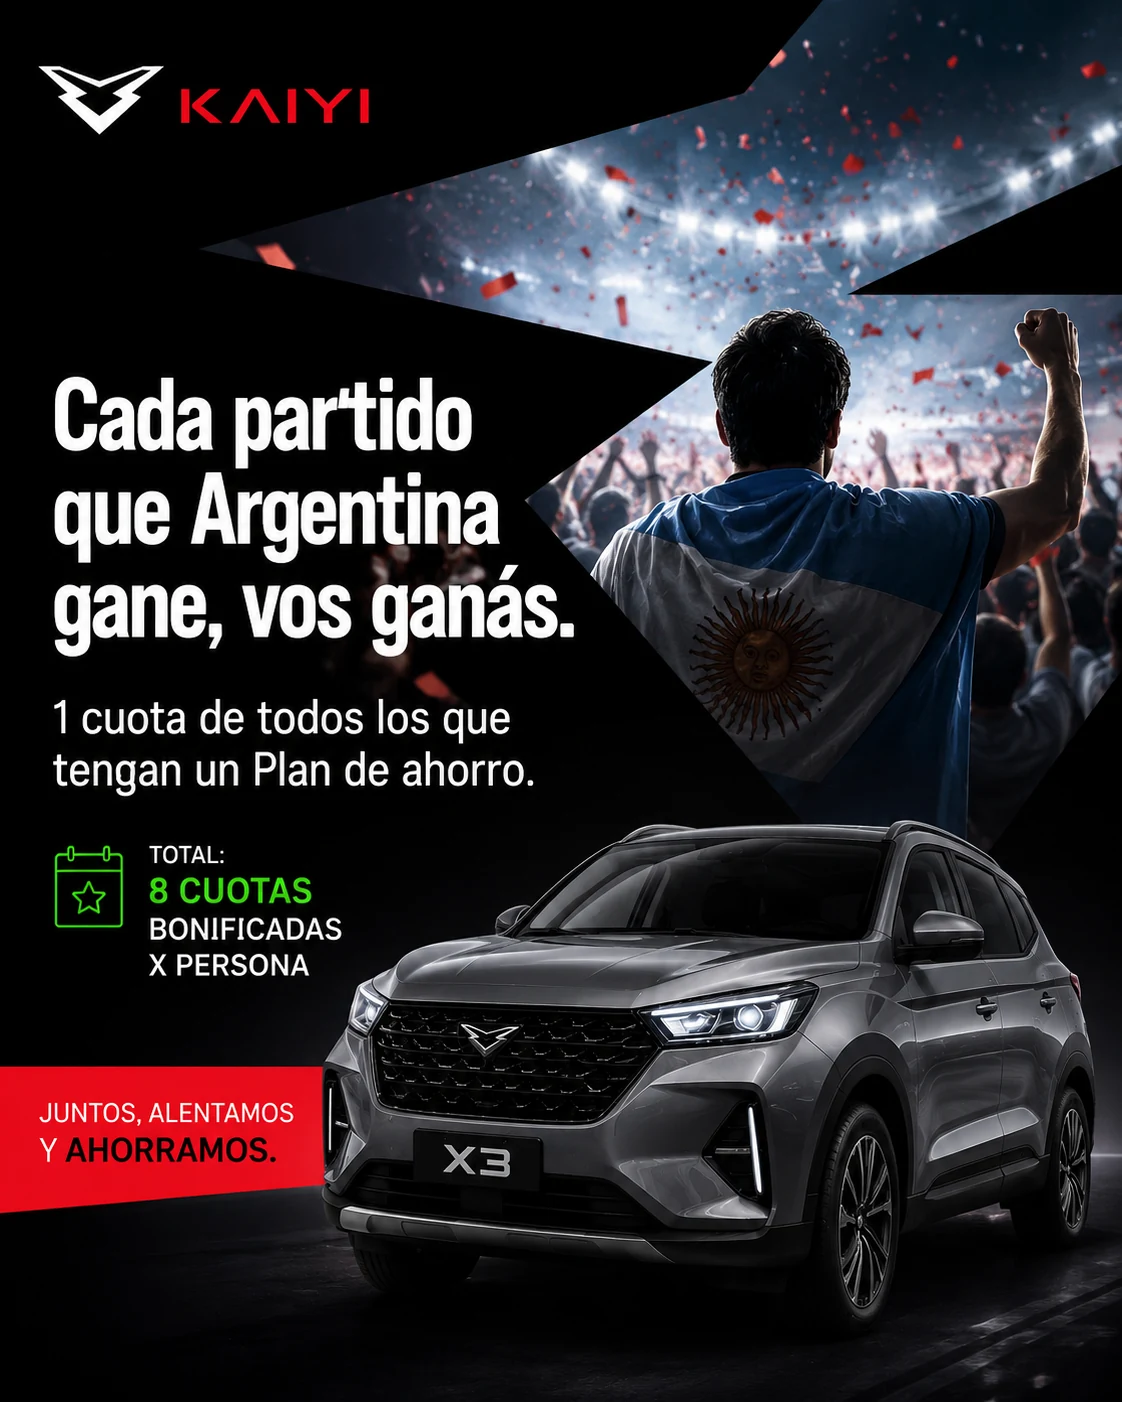
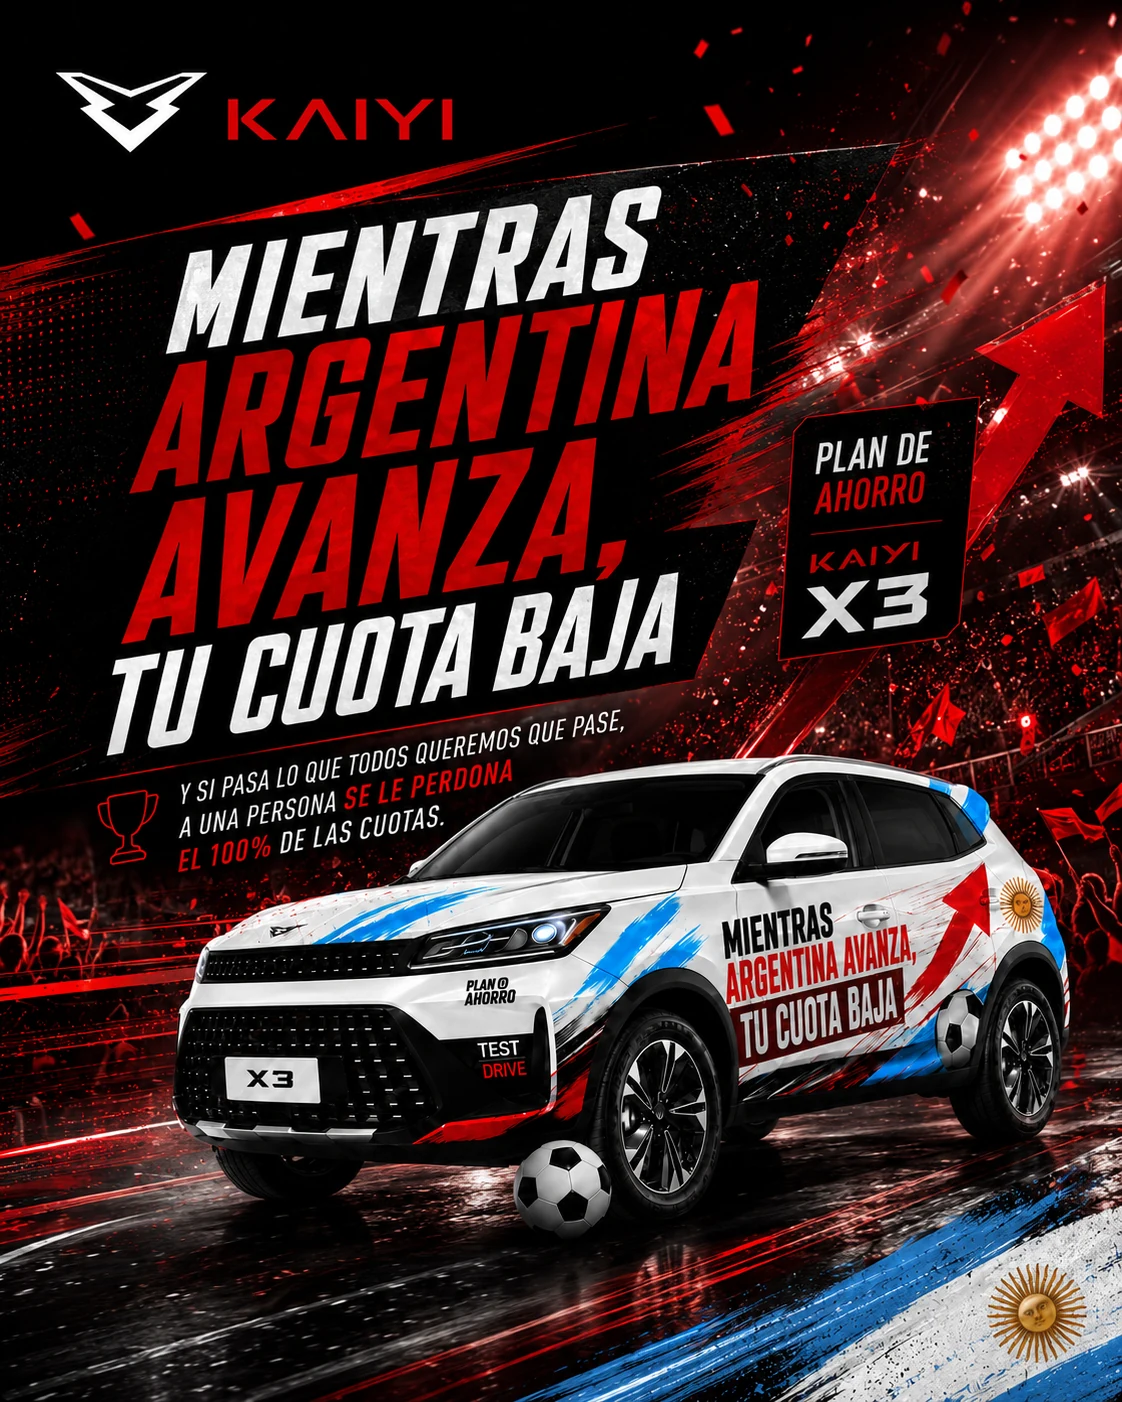
kaiyi-mundial-plan-ahorro: imagenes finales (KVs, renders concesionaria, Peto) + seccion Paid Media (Meta en USD @user + medios directos)

diff --git a/presentaciones/kaiyi/kaiyi-mundial-plan-ahorro/index.html b/presentaciones/kaiyi/kaiyi-mundial-plan-ahorro/index.html
@@ -187,11 +187,43 @@
     </div>
 
     <!-- paid media -->
-    <span class="sub-label reveal">Paid media</span>
-    <div class="reserved reveal" data-d="60">
-      <div class="rt">Space reserved · team input</div>
-      <h4>Digital campaign for lead capture</h4>
-      <p>Real-time campaign across Google, Meta and TikTok promoting the benefit stage by stage and capturing Kaiyi X3 savings-plan leads. Detailed media strategy, mix and investment to be added here by the performance team.</p>
+    <span class="sub-label reveal">Paid media · the plan</span>
+    <p class="lead reveal">Built on Kaiyi X3 / Savings Plan historical performance, a prudent, predictable scenario for the 22-day window (Jun 29 – Jul 20). The World Cup mechanic adds a clear commercial trigger: every stage Argentina advances is a covered installment, turning the run into real urgency to subscribe to the X3 plan.</p>
+
+    <div class="cost-grid reveal" data-d="60" style="margin-top:26px">
+      <div class="cost-card hot"><div class="cc-l">Total paid investment</div><div class="cc-v">US$ 3,095</div><div class="cc-d">Meta + direct media, all-in for the 22-day window.</div></div>
+      <div class="cost-card"><div class="cc-l">Window</div><div class="cc-v">22 days</div><div class="cc-d">Jun 29 – Jul 20, the heart of the run.</div></div>
+      <div class="cost-card"><div class="cc-l">Fronts</div><div class="cc-v">2</div><div class="cc-d">Meta lead-gen + premium direct-media portals.</div></div>
+    </div>
+
+    <!-- META -->
+    <div class="pm-block reveal" data-d="60" style="margin-top:26px">
+      <div class="pm-h"><span class="pm-pill">Meta</span><h3>Instagram + Facebook · lead generation</h3></div>
+      <p class="pm-rational">Projection based on Kaiyi X3 / Savings Plan historical campaign performance, a prudent scenario prioritizing consistency and predictability. The World Cup benefit reinforces intent to enquire and opens a tactical window to push the X3 plan.</p>
+      <div class="stats cols-5">
+        <div class="stat"><div class="n gr">US$ 987</div><div class="l">Investment</div><div class="d">ARS 1.5M @ $1,520</div></div>
+        <div class="stat"><div class="n gr">200–220</div><div class="l">Leads</div></div>
+        <div class="stat"><div class="n gr">115–130K</div><div class="l">Reach</div></div>
+        <div class="stat"><div class="n gr">260–285K</div><div class="l">Impressions</div></div>
+        <div class="stat"><div class="n gr">1.3–1.6K</div><div class="l">Clicks</div></div>
+      </div>
+    </div>
+
+    <!-- DIRECT MEDIA -->
+    <div class="pm-block reveal" data-d="60" style="margin-top:16px">
+      <div class="pm-h"><span class="pm-pill">Direct media</span><h3>Premium portals · qualified traffic</h3></div>
+      <p class="pm-rational">Optimized allocation across high-fidelity sites: high viewability on iProfesional, mass reach on Canal 26 and regional presence on El Día. The run works as an urgency trigger, securing the qualified traffic needed to maximize X3 plan subscriptions.</p>
+      <div class="ptable-wrap" style="margin-top:20px">
+        <table class="ptable">
+          <thead><tr><th>Site</th><th>Investment</th><th>Impressions</th><th>Viewability</th><th>CTR</th><th>Clicks</th></tr></thead>
+          <tbody>
+            <tr><td>iProfesional</td><td>US$ 949</td><td>129,217</td><td>95%</td><td>0.48%</td><td>1,415</td></tr>
+            <tr><td>Canal 26</td><td>US$ 738</td><td>440,000</td><td>74%</td><td>0.20%</td><td>554</td></tr>
+            <tr><td>El Día</td><td>US$ 422</td><td>220,000</td><td>65%</td><td>0.10%</td><td>220</td></tr>
+            <tr class="total"><td>Total</td><td>US$ 2,108</td><td>789,217</td><td>78%</td><td>0.26%</td><td>2,189</td></tr>
+          </tbody>
+        </table>
+      </div>
     </div>
 
     <!-- influencers -->
@@ -205,7 +237,7 @@
         <div class="pf"><b>+500K</b> followers · IG</div>
       </div>
       <div class="streamer">
-        <div class="pic ph-pic"><span>Peto Colombo<br>photo TBD</span></div>
+        <div class="pic"><img src="assets/img/peto-colombo.webp" alt="Peto Colombo"></div>
         <div class="pn">Peto Colombo</div>
         <div class="pm">Auto-niche creator · launch host</div>
         <div class="pf"><b>+250K</b> followers · IG + YT</div>
@@ -255,15 +287,16 @@
       <p class="lead">World Cup atmosphere built to HQ's design guidelines, the mandatory branding kit that also unlocks co-funding. Images below are reference placeholders; final renders will be produced and swapped in.</p>
     </div>
 
-    <div class="vframe glow reveal" data-d="40" style="margin-bottom:28px"><img src="assets/img/dealership-banner.webp" alt="Dealership World Cup branding reference"></div>
+    <div class="vframe glow reveal" data-d="40" style="margin-bottom:10px"><img src="assets/img/facade-door-head.webp" alt="Facade door head · World Cup dealership branding"></div>
+    <p class="note reveal" style="margin-bottom:28px">Facade door head · 4 m × 7 m, the storefront turns into the stadium.</p>
 
     <div class="gallery reveal" data-d="80">
-      <div class="ga-tile"><div class="ga-ph"><span class="tg">Render TBD</span></div><div class="ga-body"><span class="req">Mandatory</span><h4>Facade door head</h4><div class="spec">4 m × 7 m · main storefront sign</div></div></div>
-      <div class="ga-tile"><div class="ga-ph"><span class="tg">Render TBD</span></div><div class="ga-body"><span class="req">Mandatory</span><h4>Window vinyl</h4><div class="spec">1 m × 1,7 m · glass film</div></div></div>
-      <div class="ga-tile"><div class="ga-ph"><span class="tg">Render TBD</span></div><div class="ga-body"><span class="req">Mandatory</span><h4>Totem / display</h4><div class="spec">180 cm × 80 cm · promo offers</div></div></div>
-      <div class="ga-tile"><div class="ga-ph"><span class="tg">Render TBD</span></div><div class="ga-body"><span class="req">Mandatory</span><h4>Main event KV</h4><div class="spec">9 m × 16 m · host key visual</div></div></div>
-      <div class="ga-tile"><div class="ga-ph"><span class="tg">Render TBD</span></div><div class="ga-body"><span class="req">Mandatory</span><h4>Vehicle wrap</h4><div class="spec">0,86 m × 4,71 m · X3 ploteo</div></div></div>
-      <div class="ga-tile"><div class="ga-ph"><span class="tg">Render TBD</span></div><div class="ga-body"><span class="req">Mandatory</span><h4>Interior &amp; hanging décor</h4><div class="spec">World Cup ambiance · as needed</div></div></div>
+      <div class="ga-tile"><div class="ga-ph"><img src="assets/img/window-vinyl.webp" alt="Window vinyl"></div><div class="ga-body"><span class="req">Mandatory</span><h4>Window vinyl</h4><div class="spec">1 m × 1,7 m · glass film</div></div></div>
+      <div class="ga-tile"><div class="ga-ph"><img src="assets/img/totem-display.webp" alt="Totem / display"></div><div class="ga-body"><span class="req">Mandatory</span><h4>Totem / display</h4><div class="spec">180 cm × 80 cm · promo offers</div></div></div>
+      <div class="ga-tile"><div class="ga-ph"><img src="assets/img/main-event-kv.webp" alt="Main event KV"></div><div class="ga-body"><span class="req">Mandatory</span><h4>Main event KV</h4><div class="spec">9 m × 16 m · host key visual</div></div></div>
+      <div class="ga-tile"><div class="ga-ph"><img src="assets/img/kaiyi-suv.webp" alt="Vehicle wrap"></div><div class="ga-body"><span class="req">Mandatory</span><h4>Vehicle wrap</h4><div class="spec">0,86 m × 4,71 m · X3 ploteo</div></div></div>
+      <div class="ga-tile"><div class="ga-ph"><img src="assets/img/interior-hanging-decor.webp" alt="Interior &amp; hanging décor"></div><div class="ga-body"><span class="req">Mandatory</span><h4>Interior &amp; hanging décor</h4><div class="spec">World Cup ambiance · as needed</div></div></div>
+      <div class="ga-tile"><div class="ga-ph"><img src="assets/img/banner-roll-up.webp" alt="Roll-up banner"></div><div class="ga-body"><span class="req">Support</span><h4>Roll-up banner</h4><div class="spec">Promo roll-up · point of sale</div></div></div>
     </div>
 
     <!-- cost -->
@@ -481,11 +514,43 @@
     </div>
 
     <!-- paid media -->
-    <span class="sub-label reveal">Paid media</span>
-    <div class="reserved reveal" data-d="60">
-      <div class="rt">Espacio reservado · input del equipo</div>
-      <h4>Campaña digital para captación de leads</h4>
-      <p>Campaña en tiempo real en Google, Meta y TikTok promocionando el beneficio fase por fase y captando leads del Plan de Ahorro Kaiyi X3. La estrategia de medios, el mix y la inversión los suma acá el equipo de performance.</p>
+    <span class="sub-label reveal">Paid media · el plan</span>
+    <p class="lead reveal">Construido sobre el rendimiento histórico de campañas de Kaiyi X3 / Plan de Ahorro, un escenario prudente y previsible para la ventana de 22 días (29/06 al 20/07). La mecánica Mundial suma un gatillador comercial claro: cada fase que avanza Argentina es una cuota bonificada, y eso transforma el avance en urgencia real para suscribir el plan del X3.</p>
+
+    <div class="cost-grid reveal" data-d="60" style="margin-top:26px">
+      <div class="cost-card hot"><div class="cc-l">Inversión total paid</div><div class="cc-v">US$ 3.095</div><div class="cc-d">Meta + medios directos, all-in para los 22 días.</div></div>
+      <div class="cost-card"><div class="cc-l">Ventana</div><div class="cc-v">22 días</div><div class="cc-d">29/06 al 20/07, el corazón del torneo.</div></div>
+      <div class="cost-card"><div class="cc-l">Frentes</div><div class="cc-v">2</div><div class="cc-d">Lead-gen en Meta + portales premium de medios directos.</div></div>
+    </div>
+
+    <!-- META -->
+    <div class="pm-block reveal" data-d="60" style="margin-top:26px">
+      <div class="pm-h"><span class="pm-pill">Meta</span><h3>Instagram + Facebook · generación de leads</h3></div>
+      <p class="pm-rational">Proyección basada en el rendimiento histórico de campañas de Kaiyi X3 / Plan de Ahorro, un escenario prudente que prioriza consistencia y previsibilidad. El beneficio Mundial refuerza la intención de consulta y abre una oportunidad táctica para impulsar el Plan de Ahorro X3.</p>
+      <div class="stats cols-5">
+        <div class="stat"><div class="n gr">US$ 987</div><div class="l">Inversión</div><div class="d">ARS 1,5M @ $1.520</div></div>
+        <div class="stat"><div class="n gr">200–220</div><div class="l">Leads</div></div>
+        <div class="stat"><div class="n gr">115–130K</div><div class="l">Alcance</div></div>
+        <div class="stat"><div class="n gr">260–285K</div><div class="l">Impresiones</div></div>
+        <div class="stat"><div class="n gr">1,3–1,6K</div><div class="l">Clics</div></div>
+      </div>
+    </div>
+
+    <!-- MEDIOS DIRECTOS -->
+    <div class="pm-block reveal" data-d="60" style="margin-top:16px">
+      <div class="pm-h"><span class="pm-pill">Medios directos</span><h3>Portales premium · tráfico calificado</h3></div>
+      <p class="pm-rational">Asignación optimizada sobre sitios de alta fidelidad: alta viewability en iProfesional, alcance masivo en Canal 26 y presencia regional en El Día. El Mundial funciona como gatillador de urgencia y asegura el tráfico calificado para maximizar las suscripciones al Plan de Ahorro X3.</p>
+      <div class="ptable-wrap" style="margin-top:20px">
+        <table class="ptable">
+          <thead><tr><th>Sitio</th><th>Inversión</th><th>Impresiones</th><th>Viewability</th><th>CTR</th><th>Clics</th></tr></thead>
+          <tbody>
+            <tr><td>iProfesional</td><td>US$ 949</td><td>129.217</td><td>95%</td><td>0,48%</td><td>1.415</td></tr>
+            <tr><td>Canal 26</td><td>US$ 738</td><td>440.000</td><td>74%</td><td>0,20%</td><td>554</td></tr>
+            <tr><td>El Día</td><td>US$ 422</td><td>220.000</td><td>65%</td><td>0,10%</td><td>220</td></tr>
+            <tr class="total"><td>Total</td><td>US$ 2.108</td><td>789.217</td><td>78%</td><td>0,26%</td><td>2.189</td></tr>
+          </tbody>
+        </table>
+      </div>
     </div>
 
     <!-- influencers -->
@@ -499,7 +564,7 @@
         <div class="pf"><b>+500K</b> seguidores · IG</div>
       </div>
       <div class="streamer">
-        <div class="pic ph-pic"><span>Peto Colombo<br>foto a definir</span></div>
+        <div class="pic"><img src="assets/img/peto-colombo.webp" alt="Peto Colombo"></div>
         <div class="pn">Peto Colombo</div>
         <div class="pm">Creador nicho auto · host del lanzamiento</div>
         <div class="pf"><b>+250K</b> seguidores · IG + YT</div>
@@ -549,15 +614,16 @@
       <p class="lead">Ambientación mundialista según los lineamientos de diseño de HQ, el kit de branding obligatorio que además habilita el co-funding. Las imágenes de abajo son placeholders de referencia; los renders finales se producen y se reemplazan.</p>
     </div>
 
-    <div class="vframe glow reveal" data-d="40" style="margin-bottom:28px"><img src="assets/img/dealership-banner.webp" alt="Referencia de branding mundialista en concesionaria"></div>
+    <div class="vframe glow reveal" data-d="40" style="margin-bottom:10px"><img src="assets/img/facade-door-head.webp" alt="Cartel de fachada · ambientación mundialista en concesionaria"></div>
+    <p class="note reveal" style="margin-bottom:28px">Cartel de fachada · 4 m × 7 m, la concesionaria se convierte en la cancha.</p>
 
     <div class="gallery reveal" data-d="80">
-      <div class="ga-tile"><div class="ga-ph"><span class="tg">Render a definir</span></div><div class="ga-body"><span class="req">Obligatorio</span><h4>Cartel de fachada</h4><div class="spec">4 m × 7 m · cartel principal</div></div></div>
-      <div class="ga-tile"><div class="ga-ph"><span class="tg">Render a definir</span></div><div class="ga-body"><span class="req">Obligatorio</span><h4>Vinilo para vidriera</h4><div class="spec">1 m × 1,7 m · glass film</div></div></div>
-      <div class="ga-tile"><div class="ga-ph"><span class="tg">Render a definir</span></div><div class="ga-body"><span class="req">Obligatorio</span><h4>Tótem / display</h4><div class="spec">180 cm × 80 cm · ofertas promo</div></div></div>
-      <div class="ga-tile"><div class="ga-ph"><span class="tg">Render a definir</span></div><div class="ga-body"><span class="req">Obligatorio</span><h4>KV principal del evento</h4><div class="spec">9 m × 16 m · host key visual</div></div></div>
-      <div class="ga-tile"><div class="ga-ph"><span class="tg">Render a definir</span></div><div class="ga-body"><span class="req">Obligatorio</span><h4>Ploteo vehicular</h4><div class="spec">0,86 m × 4,71 m · ploteo X3</div></div></div>
-      <div class="ga-tile"><div class="ga-ph"><span class="tg">Render a definir</span></div><div class="ga-body"><span class="req">Obligatorio</span><h4>Ambientación interior y colgante</h4><div class="spec">Clima mundialista · según necesidad</div></div></div>
+      <div class="ga-tile"><div class="ga-ph"><img src="assets/img/window-vinyl.webp" alt="Vinilo para vidriera"></div><div class="ga-body"><span class="req">Obligatorio</span><h4>Vinilo para vidriera</h4><div class="spec">1 m × 1,7 m · glass film</div></div></div>
+      <div class="ga-tile"><div class="ga-ph"><img src="assets/img/totem-display.webp" alt="Tótem / display"></div><div class="ga-body"><span class="req">Obligatorio</span><h4>Tótem / display</h4><div class="spec">180 cm × 80 cm · ofertas promo</div></div></div>
+      <div class="ga-tile"><div class="ga-ph"><img src="assets/img/main-event-kv.webp" alt="KV principal del evento"></div><div class="ga-body"><span class="req">Obligatorio</span><h4>KV principal del evento</h4><div class="spec">9 m × 16 m · host key visual</div></div></div>
+      <div class="ga-tile"><div class="ga-ph"><img src="assets/img/kaiyi-suv.webp" alt="Ploteo vehicular"></div><div class="ga-body"><span class="req">Obligatorio</span><h4>Ploteo vehicular</h4><div class="spec">0,86 m × 4,71 m · ploteo X3</div></div></div>
+      <div class="ga-tile"><div class="ga-ph"><img src="assets/img/interior-hanging-decor.webp" alt="Ambientación interior y colgante"></div><div class="ga-body"><span class="req">Obligatorio</span><h4>Ambientación interior y colgante</h4><div class="spec">Clima mundialista · según necesidad</div></div></div>
+      <div class="ga-tile"><div class="ga-ph"><img src="assets/img/banner-roll-up.webp" alt="Banner roll-up"></div><div class="ga-body"><span class="req">Soporte</span><h4>Banner roll-up</h4><div class="spec">Roll-up promocional · punto de venta</div></div></div>
     </div>
 
     <!-- costo -->

diff --git a/presentaciones/kaiyi/kaiyi-mundial-plan-ahorro/styles.css b/presentaciones/kaiyi/kaiyi-mundial-plan-ahorro/styles.css
@@ -367,6 +367,27 @@ a { color: inherit; text-decoration: none; }
 .cost-card.hot .cc-v { color: var(--red); }
 .cost-card .cc-d { font-size: 12.5px; color: var(--t-2); margin-top: 10px; line-height: 1.5; }
 
+/* ----- Paid media · channel block + portals table ----- */
+.pm-block { border: 1px solid var(--border); border-radius: var(--radius); padding: 28px 28px 30px; background: var(--card); }
+.pm-block .pm-h { display: flex; align-items: center; gap: 12px; flex-wrap: wrap; margin-bottom: 6px; }
+.pm-block .pm-h h3 { font-size: 20px; font-weight: 700; }
+.pm-block .pm-h .pm-pill { font-size: 10.5px; letter-spacing: .12em; text-transform: uppercase; font-weight: 700; color: #fff; background: var(--red); padding: 4px 10px; border-radius: 999px; }
+.pm-block .pm-rational { font-size: 13.5px; color: var(--t-2); line-height: 1.6; margin-top: 12px; max-width: 720px; }
+.pm-block .stats { margin-top: 22px; }
+
+.ptable-wrap { overflow-x: auto; border: 1px solid var(--border); border-radius: var(--radius-sm); background: var(--card); }
+.ptable { width: 100%; border-collapse: collapse; font-size: 13.5px; min-width: 580px; }
+.ptable th { text-align: left; font-size: 11px; font-weight: 700; letter-spacing: .08em; text-transform: uppercase; color: var(--t-3); padding: 14px 16px; border-bottom: 1px solid var(--border-2); white-space: nowrap; }
+.ptable th:not(:first-child) { text-align: right; }
+.ptable td { padding: 13px 16px; border-top: 1px solid var(--border); color: var(--t-2); }
+.ptable td:first-child { color: #fff; font-weight: 600; padding-left: 20px; }
+.ptable td:not(:first-child) { text-align: right; font-variant-numeric: tabular-nums; }
+.ptable tbody tr:hover td { background: rgba(255,255,255,.02); }
+.ptable tr.total td { font-weight: 800; color: #fff; border-top: 1px solid var(--border-2); background: rgba(255,0,0,.06); }
+.ptable tr.total td:not(:first-child) { color: var(--red); }
+.pm-cols { display: grid; grid-template-columns: 1fr 1fr; gap: 16px; }
+@media (max-width: 980px) { .pm-cols { grid-template-columns: 1fr; } }
+
 /* ----- Horizontal timeline (calendar) ----- */
 .tline { position: relative; margin-top: 14px; }
 .tline-rail { display: grid; grid-template-columns: repeat(5, 1fr); gap: 0; }